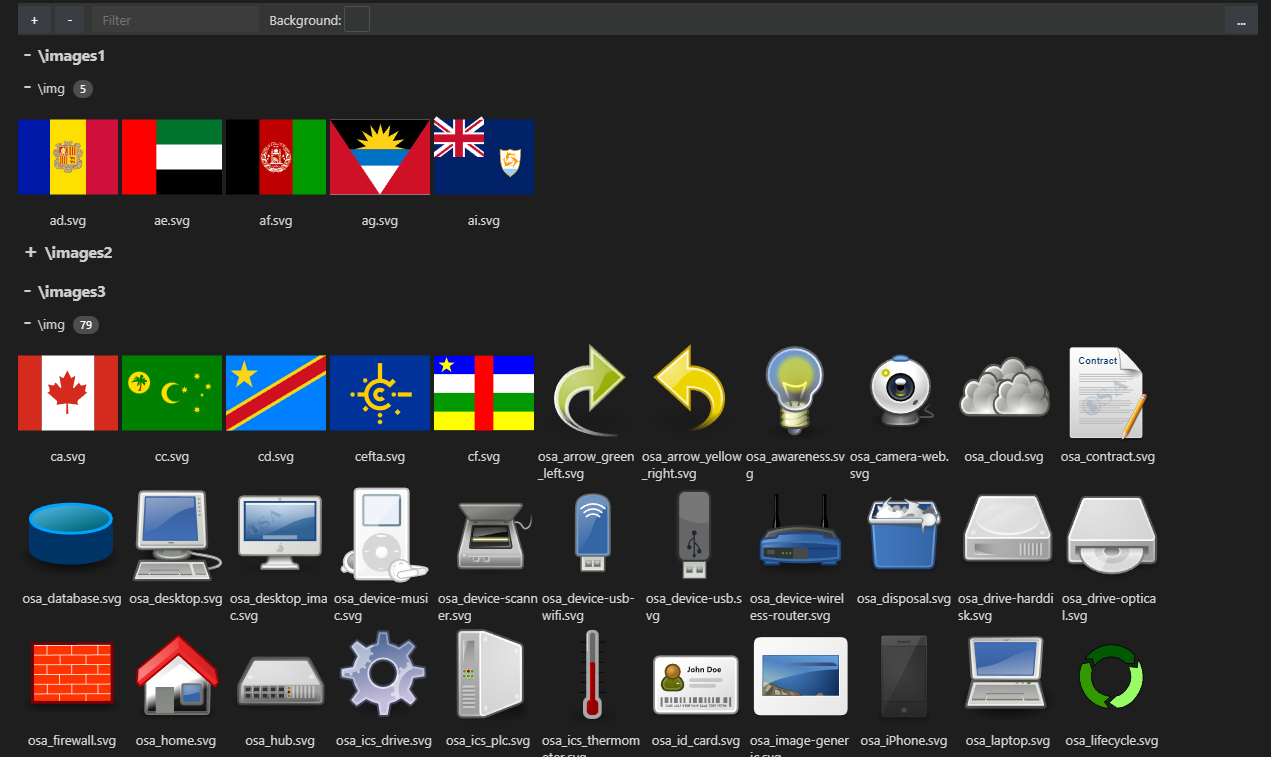
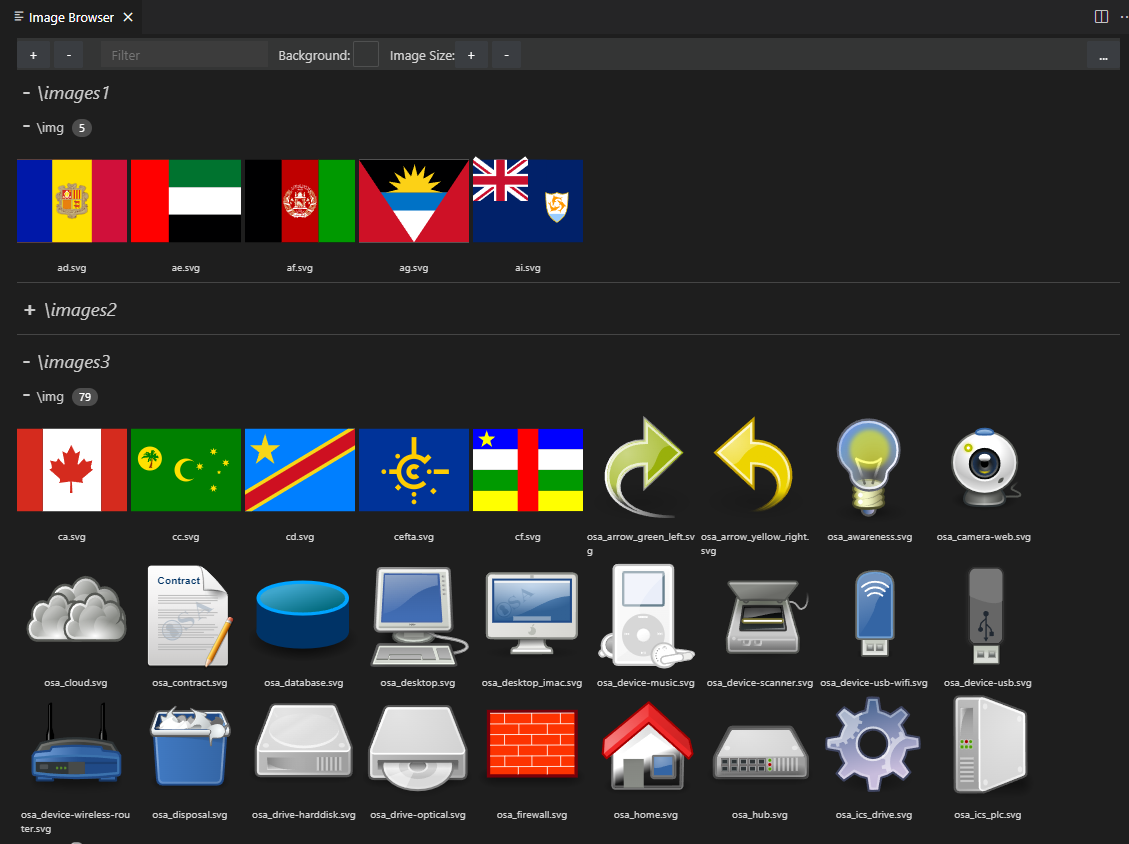
Finalise packaging and readme for publishing to marketplace

diff --git a/src/extension.ts b/src/extension.ts
@@ -1,18 +1,11 @@
 import * as vscode from "vscode";
 import * as path from "path"
-import { ImageBrowserPanel } from "./panels/ImageBrowserPanel";
+import { ImageBrowserPanel, ImageUriResult } from "./panels/ImageBrowserPanel";
 import { MenuContext } from "./protocol";
-import { openInApp } from "./utilities";
+import { openFileLocation, openInApp } from "./utilities";
 
 
-export const EXTENSION_ID = "vscode-project-image-browser";
-
-// Join path parts while replacing separator with configured one if necessary
-function joinPath(...paths: string[]) {
-    const sep = vscode.workspace.getConfiguration(EXTENSION_ID).get("pathDeliminator", "Default");
-    const fullPath = path.join(...paths);
-    return sep == "Default" ? fullPath : fullPath.replace(new RegExp('\\' + path.sep, 'g'), sep);
-}
+export const EXTENSION_ID = "project-image-browser";
 
 export function activate(context: vscode.ExtensionContext) {
     // Show the webview
@@ -21,43 +14,31 @@ export function activate(context: vscode.ExtensionContext) {
     });
     context.subscriptions.push(viewImagesCommand);
 
-    // Context menu: copy image name to clipboard
-    const copyName = vscode.commands.registerCommand(EXTENSION_ID + ".CopyName", (context: MenuContext) => {
-        if (ImageBrowserPanel.instance) {
-            const result = ImageBrowserPanel.instance.findImageFromUri(context.imageUri);
-            if (result)
-                vscode.env.clipboard.writeText(result.image.name);
-        }
-    });
-    context.subscriptions.push(copyName);
+    // Image context menu
+    const contextMenu: { [key: string]: (result: ImageUriResult) => void } = {
+        "CopyName": result => vscode.env.clipboard.writeText(result.image.name),
+        "CopyRelativePath": result => vscode.env.clipboard.writeText(joinPath(result.image.path, result.image.name)),
+        "CopyFullPath": result => vscode.env.clipboard.writeText(joinPath(result.projectDir, result.image.path, result.image.name)),
 
-    // Context menu: copy image name to clipboard
-    const copyRelativePath = vscode.commands.registerCommand(EXTENSION_ID + ".CopyRelativePath", (context: MenuContext) => {
-        if (ImageBrowserPanel.instance) {
-            const result = ImageBrowserPanel.instance.findImageFromUri(context.imageUri);
-            if (result)
-                vscode.env.clipboard.writeText(joinPath(result.image.path, result.image.name));
-        }
-    });
-    context.subscriptions.push(copyRelativePath);
+        "OpenImageFile": result => openInApp(path.join(result.projectDir, result.image.path, result.image.name)),
+        "OpenImageLocation": result => openFileLocation(path.join(result.projectDir, result.image.path)),
+    };
 
-    // Context menu: copy image name to clipboard
-    const copyFullPath = vscode.commands.registerCommand(EXTENSION_ID + ".CopyFullPath", (context: MenuContext) => {
-        if (ImageBrowserPanel.instance) {
-            const result = ImageBrowserPanel.instance.findImageFromUri(context.imageUri);
-            if (result)
-                vscode.env.clipboard.writeText(joinPath(result.projectDir, result.image.path, result.image.name));
-        }
+    Object.keys(contextMenu).forEach(name => {
+        const command = vscode.commands.registerCommand(EXTENSION_ID + "." + name, (context: MenuContext) => {
+            if (ImageBrowserPanel.instance) {
+                const result = ImageBrowserPanel.instance.findImageFromUri(context.imageUri);
+                if (result)
+                    contextMenu[name](result);
+            }
+        });
+        context.subscriptions.push(command);
     });
-    context.subscriptions.push(copyFullPath);
+}
 
-    // Context menu: open image file in default app
-    const openImageFile = vscode.commands.registerCommand(EXTENSION_ID + ".OpenImageFile", (context: MenuContext) => {
-        if (ImageBrowserPanel.instance) {
-            const result = ImageBrowserPanel.instance.findImageFromUri(context.imageUri);
-            if (result)
-                openInApp(joinPath(result.projectDir, result.image.path, result.image.name))
-        }
-    });
-    context.subscriptions.push(openImageFile);
+// Join path parts while replacing separator with configured one if necessary
+function joinPath(...paths: string[]) {
+    const sep = vscode.workspace.getConfiguration(EXTENSION_ID).get("pathDeliminator", "Default");
+    const fullPath = path.join(...paths);
+    return sep == "Default" ? fullPath : fullPath.replace(new RegExp('\\' + path.sep, 'g'), sep);
 }

diff --git a/webview-ui/src/App.tsx b/webview-ui/src/App.tsx
@@ -206,12 +206,12 @@ const App: Component = () => {
                 <vscode-text-field class="filter-text" placeholder="Filter" value={filter()} onInput={(e: any) => setFilter(e.target.value)} />
                 {/* Background */}
                 Background:
-                <vscode-button class="toolbar-button" appearance="icon" onclick={() => setShowBackgroundColorModal(true)}>
+                <vscode-button id="toolbar-background-button" class="right" appearance="icon" onclick={() => setShowBackgroundColorModal(true)}>
                     <Background background={backgroundStyle()} modifiers="color-button-content" />
                 </vscode-button>
                 {/* Image size */}
                 Image Size:
-                <vscode-button class="toolbar-pm group-expander" onclick={() => onImageSize(10)} appearance="secondary">+</vscode-button>
+                <vscode-button class="toolbar-pm group-expander left" onclick={() => onImageSize(10)} appearance="secondary">+</vscode-button>
                 <vscode-button class="toolbar-pm group-expander right" onclick={() => onImageSize(-10)} appearance="secondary">-</vscode-button>
                 {/* Settings */}
                 <div class='toolbar-spacer' />

diff --git a/src/utilities.ts b/src/utilities.ts
@@ -1,6 +1,6 @@
 import * as vscode from "vscode";
 import * as path from 'path'
-import { execFile } from 'child_process';
+import { exec, execFile } from 'child_process';
 import * as os from 'os';
 
 /**
@@ -58,3 +58,19 @@ export function openInApp(path: string) {
         throw new Error(`Unsupported platform, could not open "${path}"`);
     }
 };
+
+
+export function openFileLocation(path: string) {
+    if (process.platform === 'win32' || (process.platform === 'linux' && os.release().toLowerCase().includes('windows'))) {
+        exec('explorer ' + path.replace(/[&^]/g, '^$&'));
+    }
+    else if (process.platform === 'linux') {
+        // todo
+    }
+    else if (process.platform === 'darwin') {
+        exec(`open path`)
+    }
+    else {
+        throw new Error(`Unsupported platform, could not open "${path}"`);
+    }
+}

diff --git a/src/panels/ImageBrowserPanel.ts b/src/panels/ImageBrowserPanel.ts
@@ -4,6 +4,8 @@ import { imageSearchMultipleFolders } from '../imageSearch';
 import { EXTENSION_ID } from '../extension';
 import * as path from 'path'
 
+export type ImageUriResult = { projectDir: string, image: protocol.ImageFile }
+
 type MessageHandler = (message: protocol.Message) => void;
 
 /**

diff --git a/webview-ui/src/App.css b/webview-ui/src/App.css
@@ -18,13 +18,13 @@ main {
     flex: 1;
 }
 
-.toolbar-button {
+.right {
+    margin-left: 4px;
     margin-right: 8px;
 }
 
-.toolbar-pm.right {
+.left {
     margin-left: 4px;
-    margin-right: 8px;
 }
 
 .filter-text {

diff --git a/README.md b/README.md
@@ -1,35 +1,39 @@
 # Project Image Browser
 
-This is a VSCode extension that allows you to view all of the images in your project collated into a single webview. The webview can be opened using a context menu in explorer pane.
+View all of the images in your project collated into a single webview. The webview can be opened using a context menu in explorer pane.
 
 Inspired by [Image Viewer](https://github.com/ZhangJian1713/vscode-image-viewer) but entirely rewritten to simplify the implementation of new features and allow VSCode theming of the webview.
 
-Features:
+## Features
+
 - Support for workspaces with multiple root folders, including selectively including/excluding them.
 - Webview matches VSCode theming
-- Multiple backgrounds available for images, including checkboards. More added on request.
+- Path copying, file opening via context menu
+- Multiple backgrounds for images, including checkboards. More added on request.
 - Image name filtering
 - Basic include/exclude filters (regex filtering tbd)
+- Most commonly used settings easily accessible in the webview UI
 
-Most, but not quite all, configuration can be altered from within the webview. 
+[![A screenshot of the browser.](./assets/extension-overview-thumb.png)](./assets/extension-overview.png)
 
-![A screenshot of the sample extension.](./assets/extension-overview.png)
+## Commands
 
-## Development
+- `project-image-browser.ViewImages`: Open the image browser
 
-The code is based on the [Hello World](https://github.com/microsoft/vscode-webview-ui-toolkit-samples/tree/main/default/hello-world) sample extension that demonstrates how to set up and use a [SolidJS](https://www.solidjs.com/) + [Webview UI Toolkit](https://github.com/microsoft/vscode-webview-ui-toolkit) webview extension.
+## Settings
 
-Once you've pulled the repo you need to install dependencies.
-```bash
-# Navigate to project folder
+- `project-image-browser.includeFolders`: Within workspace folders only this path will be searched. For example: '\\img\\icons;\\backgrounds'.
 
-# Install dependencies for both the extension and webview UI source code
-npm run install:all
+- `project-image-browser.excludeFolders`: Folders that will be ignored when found at the end of a path. For example 'node_modules' would ignore '\\frontend\\node_modules'.
 
-# Build webview UI source code
-npm run build:webview
+- `project-image-browser.imageBackground`: Color/pattern displayed behind images. Can be any CSS color but it's advisable to set it using the webview UI.
 
-# Open project in VS Code
-code .
-```
-Note that when you change the webview you must rebuild it using the NPM script (bottom of explorer window) or the command above.
+- `project-image-browser.imageSize`: Size of image preview in pixels. Can be adjusted in the UI
+
+- `project-image-browser.lazyLoading`: Only load images when scrolled into view. This makes the page open faster with large collections.
+
+- `project-image-browser.viewColumn`: The column of the editor in which to open the browser.
+
+- `project-image-browser.pathDeliminator`: The path deliminator used when displaying and copying paths to clipboard.
+
+- `project-image-browser.includeProjectFolders`: Determines which workspace folders will be searched. For multi-folder workspaces only and should only be configured using the UI.

diff --git a/DEVELOPMENT.md b/DEVELOPMENT.md
@@ -1,0 +1,16 @@
+The code is based on the [Hello World](https://github.com/microsoft/vscode-webview-ui-toolkit-samples/tree/main/default/hello-world) sample extension that demonstrates how to set up and use a [SolidJS](https://www.solidjs.com/) + [Webview UI Toolkit](https://github.com/microsoft/vscode-webview-ui-toolkit) webview extension.
+
+Once you've pulled the repo you need to install dependencies.
+```bash
+# Navigate to project folder
+
+# Install dependencies for both the extension and webview UI source code
+npm run install:all
+
+# Build webview UI source code
+npm run build:webview
+
+# Open project in VS Code
+code .
+```
+Note that when you change the webview you must rebuild it using the NPM script (bottom of explorer window) or the command above.
